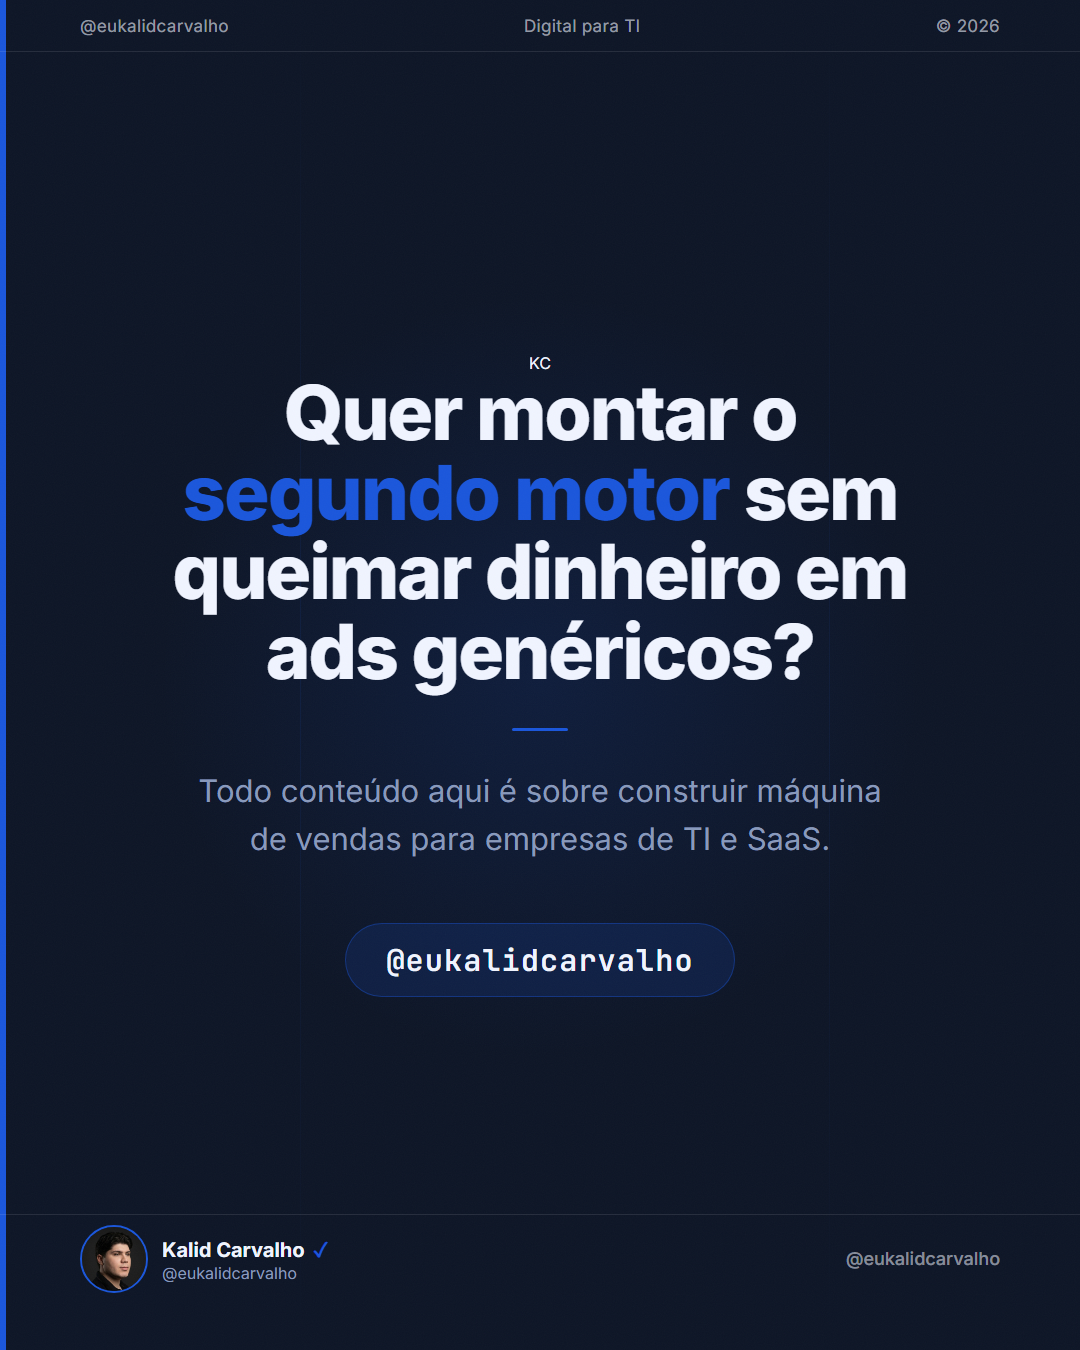
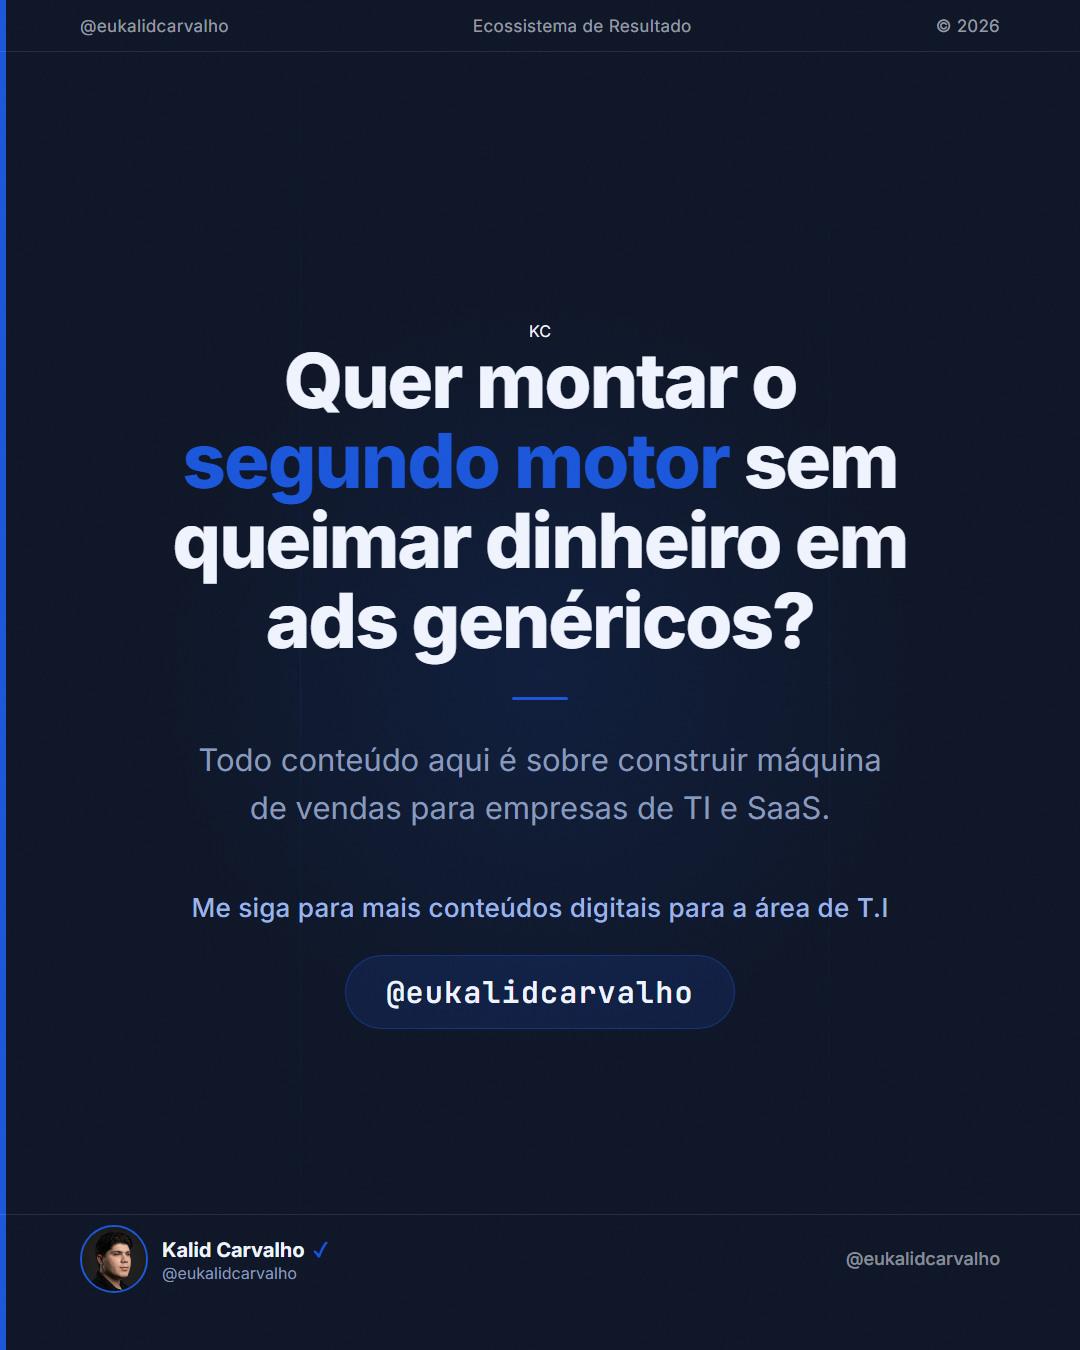
auto-sync: 2026-04-16 16:23

Changed region(s): [[0.1528, 0.2178, 0.8556, 0.5289], [0.1833, 0.56, 0.825, 0.7778], [0.4278, 0.0, 0.6417, 0.0311]]

diff --git a/conteudo/eukalidcarvalho/carrosseis/2026-04-16/ti-indicacao/instagram/slide-09.html b/conteudo/eukalidcarvalho/carrosseis/2026-04-16/ti-indicacao/instagram/slide-09.html
@@ -127,6 +127,15 @@
     .ba-left { display: flex; align-items: center; gap: 14px; }
     .ba-avatar { width: 68px; height: 68px; border-radius: 50%; border: 2px solid #1A56DB; overflow: hidden; flex-shrink: 0; background: #1C2D4A; }
     .ba-avatar img { width: 100%; height: 100%; object-fit: cover; object-position: top center; }
+    .follow-cta {
+      font-family: 'Inter', sans-serif;
+      font-size: 26px;
+      font-weight: 500;
+      color: #9BB3E8;
+      margin-bottom: 32px;
+      letter-spacing: 0.01em;
+    }
+
     .ba-info { display: flex; flex-direction: column; gap: 1px; }
     .ba-name { font-family: 'Inter', sans-serif; font-size: 20px; font-weight: 700; color: #F0F4FF; }
     .ba-name .check { color: #1A56DB; margin-left: 4px; }
@@ -153,6 +162,9 @@
     <div class="divider"></div>
     <div class="cta-sub">
       Todo conteúdo aqui é sobre construir máquina de vendas para empresas de TI e SaaS.
+    </div>
+    <div class="follow-cta">
+      Me siga para mais conteúdos digitais para a área de T.I
     </div>
     <div class="handle-badge">
       <span>@eukalidcarvalho</span>
